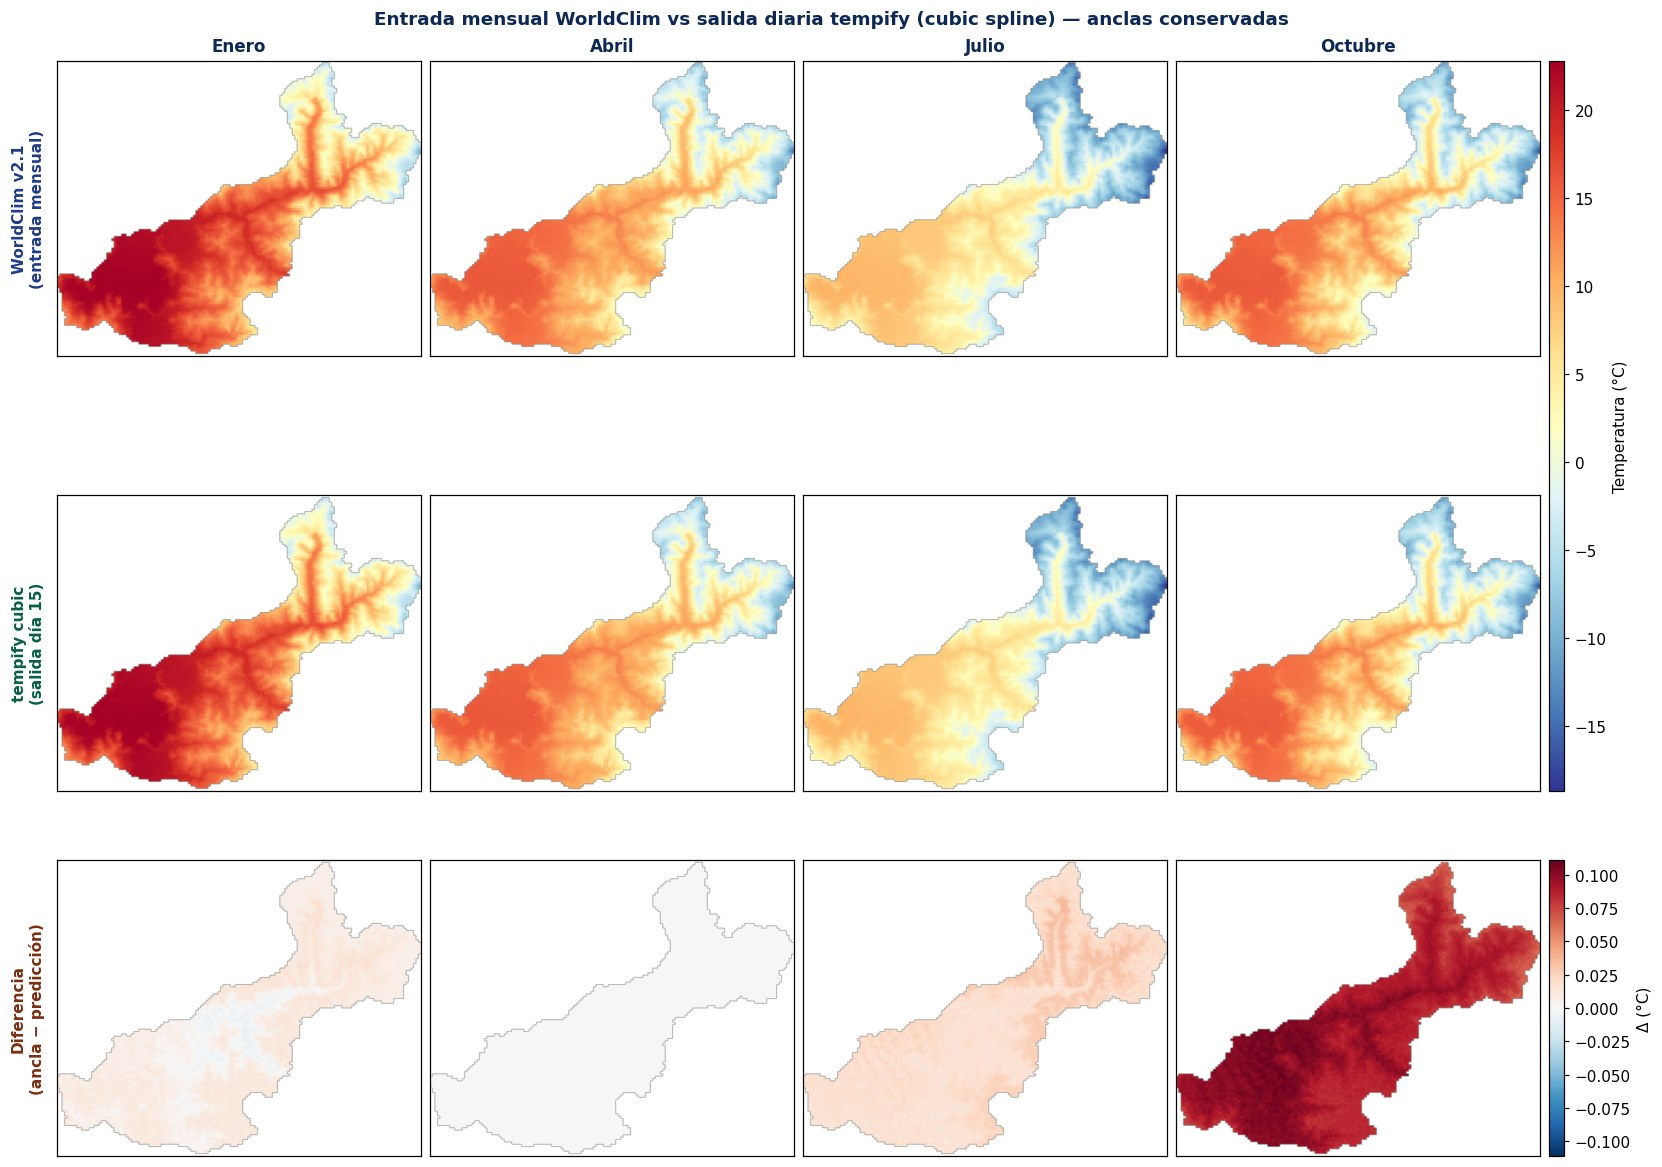
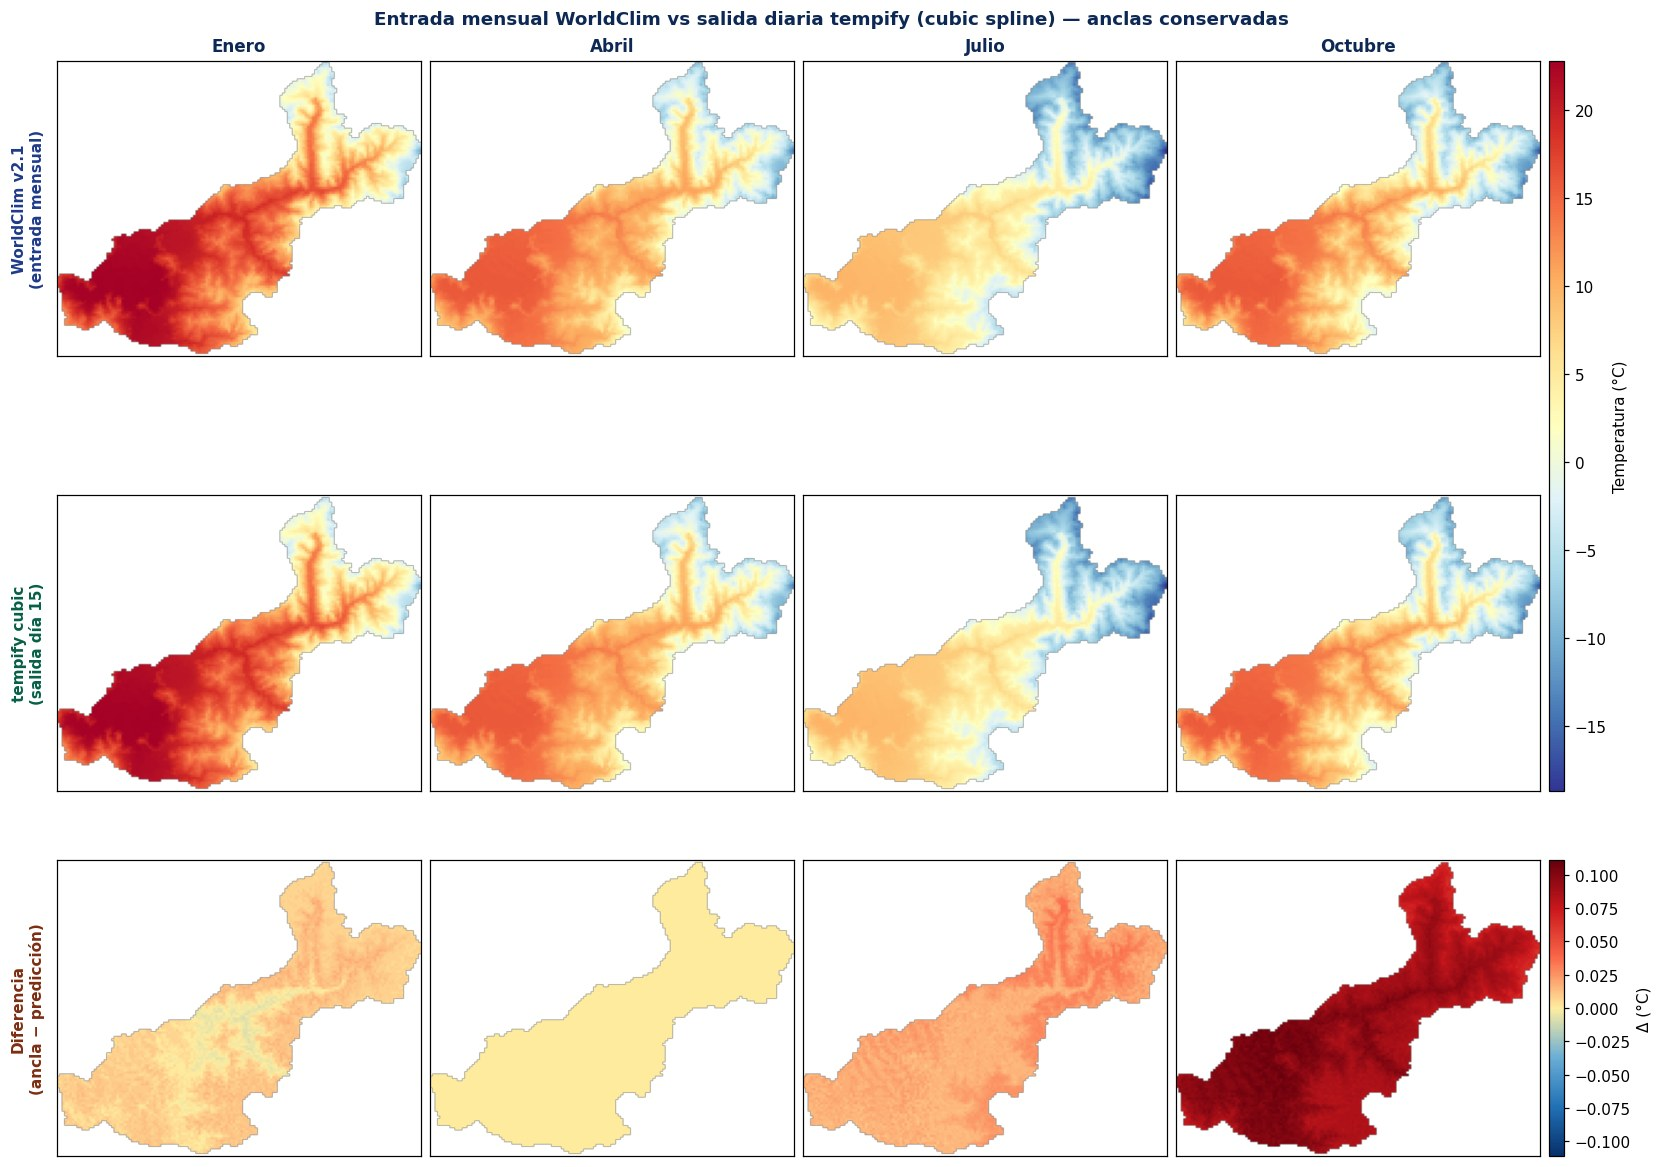
docs(landing): custom yellow-centered diverging palette for diff row
La paleta anterior (RdBu_r, default matplotlib) tiene un centro casi blanco
que se confunde con el fondo blanco de la figura: residuales pequeños
(~0.01 °C en Enero y Abril) quedaban invisibles aunque la estructura
espacial existía.

Reemplazo por una paleta custom (LinearSegmentedColormap) con centro
amarillo (#ffeda0) en lugar de blanco:

  dark blue → blue → light blue → YELLOW → coral → red → dark red

Resultado: ahora se distinguen claramente los cuatro meses:
- Enero (~0.03 °C): amarillo con estructura visible (valle vs crestas)
- Abril (~0.005 °C): amarillo uniforme (residual mínimo)
- Julio (~0.05 °C): coral, estructura de cuenca
- Octubre (~0.11 °C): rojo saturado

La paleta es diverging y simétrica respecto al cero. Centro coloreado
elegido para maximizar contraste contra el fondo blanco; los extremos
mantienen tono azul oscuro / rojo oscuro consistente con la convención
fría-cálida de la fila de temperatura.

diff --git a/examples/regenerate_maipo_monthly_grid.py b/examples/regenerate_maipo_monthly_grid.py
@@ -26,6 +26,7 @@ import matplotlib.pyplot as plt
 import numpy as np
 import rioxarray  # noqa: F401
 import xarray as xr
+from matplotlib.colors import LinearSegmentedColormap
 from matplotlib.gridspec import GridSpec
 
 from tempify.pipeline import PipelineConfig, TempifyPipeline
@@ -37,7 +38,15 @@ ASSET_PATH = Path("docs/assets/maipo_monthly_grid.jpg")
 SHOW_MONTHS = [1, 4, 7, 10]
 MONTH_NAMES_ES = {1: "Enero", 4: "Abril", 7: "Julio", 10: "Octubre"}
 CMAP_TEMP = "RdYlBu_r"
-CMAP_DIFF = "RdBu_r"
+
+# Custom diverging palette: dark blue → blue → light blue → YELLOW center →
+# coral → red → dark red. The yellow center (not white) makes small
+# residuals visible against the white background of the figure.
+CMAP_DIFF = LinearSegmentedColormap.from_list(
+    "tempify_diff",
+    ["#08306b", "#2171b5", "#6baed6", "#ffeda0", "#fb6a4a", "#cb181d", "#67000d"],
+    N=256,
+)
 
 
 def main() -> None: